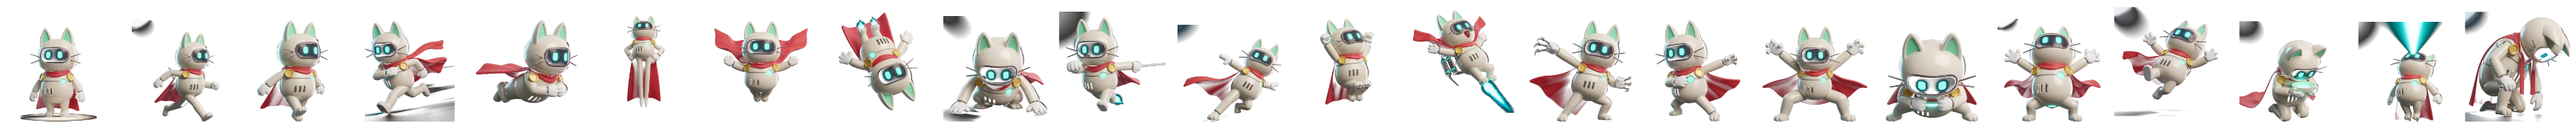
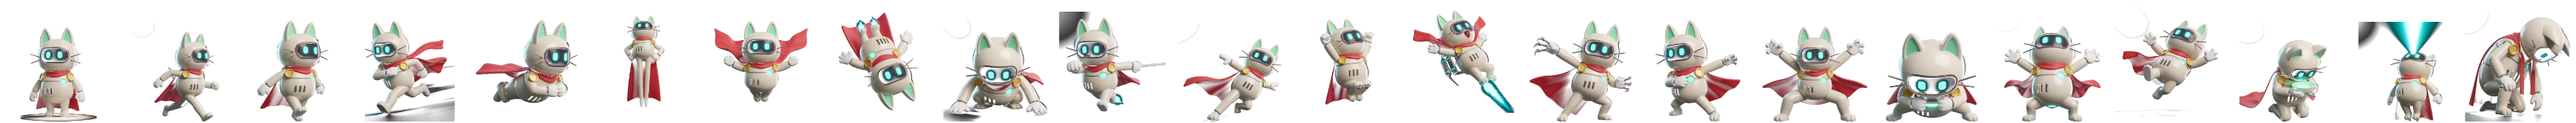
THE ROBOT HURRY: she runs like a wound-up machine, planted on the soil
The owner's exact words: 'moving like a cat instead of running like a cute
robot and running on top of grass'. Three causes, three fixes:

- The fired run pair is a low feline lunge - PARKED. heroState() substitutes
  the walk pair at 13fps; drawRoboPlate adds a forward lean and a hard little
  step-bounce so she pistons along instead of gliding. The upright re-fire
  brief is on THE FIRING LIST (new section 1e).
- HERO_FLOOR 1.2 -> 6: the plate sinks to the soil line, past the baked cell
  shadow, so the meadow grass brushes her ankles instead of carrying her.
- states.png scrubbed: 8 gray background slabs the generator left in the
  cells (5977 px) deleted by the new tools/cleanstates.cjs - per-cell
  component labeling, keep the largest (her), delete neutral+chunky islands.
  Original archived in assets/source/hero/states_asfired.png; lowres tier
  regenerated.

Verified deterministically: gait harness freezes the sim, forces anim to
each parity, and both walk cells render as distinct upright strides.
hero/tap/crystal harnesses green.

Claude-Session: https://claude.ai/code/session_01Gsj3m2xneq5ui4c7GqRHR1

diff --git a/index.html b/index.html
@@ -225,7 +225,7 @@
 })();
 </script>
 
-<script>window.BUILD_ID="msupn0wa";window.GAME_LOCK="robo";window.MUS_FILES={"ambient_observing_the_star":"assets/music/ambient_observing_the_star.ogg","epic_combat":"assets/music/epic_combat.ogg","mus_alpha":"assets/music/mus_alpha.m4a","mus_alphatame":"assets/music/mus_alphatame.m4a","mus_archives":"assets/music/mus_archives.m4a","mus_boss":"assets/music/mus_boss.m4a","mus_cache":"assets/music/mus_cache.m4a","mus_conduits":"assets/music/mus_conduits.m4a","mus_ending":"assets/music/mus_ending.m4a","mus_eye":"assets/music/mus_eye.m4a","mus_foundry":"assets/music/mus_foundry.m4a","mus_furnace":"assets/music/mus_furnace.m4a","mus_glaciere":"assets/music/mus_glaciere.m4a","mus_intro":"assets/music/mus_intro.m4a","mus_meadows":"assets/music/mus_meadows.m4a","mus_mother":"assets/music/mus_mother.m4a","mus_nest":"assets/music/mus_nest.m4a","mus_nullfang":"assets/music/mus_nullfang.m4a","mus_prism":"assets/music/mus_prism.m4a","mus_talonhost":"assets/music/mus_talonhost.m4a","mus_title":"assets/music/mus_title.m4a"};window.VID_FILES={"end_atlas":"assets/video/end_atlas.mp4","end_brood":"assets/video/end_brood.mp4","end_close":"assets/video/end_close.mp4","end_folk":"assets/video/end_folk.mp4","end_glitch":"assets/video/end_glitch.mp4","end_mother":"assets/video/end_mother.mp4","end_open":"assets/video/end_open.mp4","end_prism":"assets/video/end_prism.mp4","end_zero":"assets/video/end_zero.mp4","intro1":"assets/video/intro1.mp4","intro2":"assets/video/intro2.mp4","intro3":"assets/video/intro3.mp4","intro4":"assets/video/intro4.mp4","intro5":"assets/video/intro5.mp4","intro6":"assets/video/intro6.mp4","intro7":"assets/video/intro7.mp4","intro8":"assets/video/intro8.mp4","purify_atlas":"assets/video/purify_atlas.mp4","purify_brood":"assets/video/purify_brood.mp4","purify_glitch":"assets/video/purify_glitch.mp4","purify_prism":"assets/video/purify_prism.mp4","purify_zero":"assets/video/purify_zero.mp4","sword_gift":"assets/video/sword_gift.mp4"};window.VID_ALT={"end_atlas":"assets/video/end_atlas.webm","end_brood":"assets/video/end_brood.webm","end_close":"assets/video/end_close.webm","end_folk":"assets/video/end_folk.webm","end_glitch":"assets/video/end_glitch.webm","end_mother":"assets/video/end_mother.webm","end_open":"assets/video/end_open.webm","end_prism":"assets/video/end_prism.webm","end_zero":"assets/video/end_zero.webm","intro1":"assets/video/intro1.webm","intro2":"assets/video/intro2.webm","intro3":"assets/video/intro3.webm","intro4":"assets/video/intro4.webm","intro5":"assets/video/intro5.webm","intro6":"assets/video/intro6.webm","intro7":"assets/video/intro7.webm","intro8":"assets/video/intro8.webm","purify_atlas":"assets/video/purify_atlas.webm","purify_brood":"assets/video/purify_brood.webm","purify_glitch":"assets/video/purify_glitch.webm","purify_prism":"assets/video/purify_prism.webm","purify_zero":"assets/video/purify_zero.webm","sword_gift":"assets/video/sword_gift.webm"};window.VID_LIGHT={
+<script>window.BUILD_ID="msurpvlo";window.GAME_LOCK="robo";window.MUS_FILES={"ambient_observing_the_star":"assets/music/ambient_observing_the_star.ogg","epic_combat":"assets/music/epic_combat.ogg","mus_alpha":"assets/music/mus_alpha.m4a","mus_alphatame":"assets/music/mus_alphatame.m4a","mus_archives":"assets/music/mus_archives.m4a","mus_boss":"assets/music/mus_boss.m4a","mus_cache":"assets/music/mus_cache.m4a","mus_conduits":"assets/music/mus_conduits.m4a","mus_ending":"assets/music/mus_ending.m4a","mus_eye":"assets/music/mus_eye.m4a","mus_foundry":"assets/music/mus_foundry.m4a","mus_furnace":"assets/music/mus_furnace.m4a","mus_glaciere":"assets/music/mus_glaciere.m4a","mus_intro":"assets/music/mus_intro.m4a","mus_meadows":"assets/music/mus_meadows.m4a","mus_mother":"assets/music/mus_mother.m4a","mus_nest":"assets/music/mus_nest.m4a","mus_nullfang":"assets/music/mus_nullfang.m4a","mus_prism":"assets/music/mus_prism.m4a","mus_talonhost":"assets/music/mus_talonhost.m4a","mus_title":"assets/music/mus_title.m4a"};window.VID_FILES={"end_atlas":"assets/video/end_atlas.mp4","end_brood":"assets/video/end_brood.mp4","end_close":"assets/video/end_close.mp4","end_folk":"assets/video/end_folk.mp4","end_glitch":"assets/video/end_glitch.mp4","end_mother":"assets/video/end_mother.mp4","end_open":"assets/video/end_open.mp4","end_prism":"assets/video/end_prism.mp4","end_zero":"assets/video/end_zero.mp4","intro1":"assets/video/intro1.mp4","intro2":"assets/video/intro2.mp4","intro3":"assets/video/intro3.mp4","intro4":"assets/video/intro4.mp4","intro5":"assets/video/intro5.mp4","intro6":"assets/video/intro6.mp4","intro7":"assets/video/intro7.mp4","intro8":"assets/video/intro8.mp4","purify_atlas":"assets/video/purify_atlas.mp4","purify_brood":"assets/video/purify_brood.mp4","purify_glitch":"assets/video/purify_glitch.mp4","purify_prism":"assets/video/purify_prism.mp4","purify_zero":"assets/video/purify_zero.mp4","sword_gift":"assets/video/sword_gift.mp4"};window.VID_ALT={"end_atlas":"assets/video/end_atlas.webm","end_brood":"assets/video/end_brood.webm","end_close":"assets/video/end_close.webm","end_folk":"assets/video/end_folk.webm","end_glitch":"assets/video/end_glitch.webm","end_mother":"assets/video/end_mother.webm","end_open":"assets/video/end_open.webm","end_prism":"assets/video/end_prism.webm","end_zero":"assets/video/end_zero.webm","intro1":"assets/video/intro1.webm","intro2":"assets/video/intro2.webm","intro3":"assets/video/intro3.webm","intro4":"assets/video/intro4.webm","intro5":"assets/video/intro5.webm","intro6":"assets/video/intro6.webm","intro7":"assets/video/intro7.webm","intro8":"assets/video/intro8.webm","purify_atlas":"assets/video/purify_atlas.webm","purify_brood":"assets/video/purify_brood.webm","purify_glitch":"assets/video/purify_glitch.webm","purify_prism":"assets/video/purify_prism.webm","purify_zero":"assets/video/purify_zero.webm","sword_gift":"assets/video/sword_gift.webm"};window.VID_LIGHT={
  "end_atlas": "assets/video/light/end_atlas.mp4",
  "end_brood": "assets/video/light/end_brood.mp4",
  "end_close": "assets/video/light/end_close.mp4",
@@ -12072,7 +12072,13 @@ const HERO_CELLS = 22;
 // units — bigger than she is, because the cell has headroom over her ears — and
 // HERO_FLOOR is the 4px margin herostates.cjs leaves under the grounded poses,
 // scaled into those units so her soles land on y=0 and not just near it.
-const HERO_DH = 60, HERO_FLOOR = 1.2;
+// HERO_FLOOR sinks the plate to the SOIL LINE: the cells carry a baked
+// contact shadow and a few px of margin under the feet, and anchoring the
+// cell bottom to the floor stood her on top of the grass fringe — reported
+// as "running on top of grass instead of the ground". Sunk, her feet meet
+// the dirt and the front grass blades brush her ankles, which is what
+// standing IN a meadow looks like.
+const HERO_DH = 60, HERO_FLOOR = 6;
 // Airborne cells are CENTRED in their cell rather than stood on its floor (the
 // tool does this, because a flying pose has no contact point to align). They
 // must be drawn centred too, or she steps up a few pixels the frame she leaves
@@ -13188,10 +13194,14 @@ class Player {
     // a limp that survives a sprint reads as a bug, not as damage.
     if (this.cores <= 1 && Math.abs(this.vx) < 20) return 'slump';
     if (Math.abs(this.vx) > 12) {
-      // two-frame gait, driven by anim so it keeps time with the procedural
-      // stride the rest of the body effects are still cut to
-      const k = Math.floor(this.anim * (run ? 11 : 7)) % 2;
-      return run ? (k ? 'run_b' : 'run_a') : (k ? 'walk_b' : 'walk_a');
+      // THE RUN IS THE WALK, HURRIED. The fired run pair came back as a low
+      // feline lunge — the owner's exact words: "moving like a cat instead
+      // of running like a cute robot" — so those two cells are PARKED until
+      // re-fired upright (the re-fire is on the firing list). A cute robot
+      // hurries: same upright steps, faster, with the mechanical bounce and
+      // lean drawRoboPlate adds on top.
+      const k = Math.floor(this.anim * (run ? 13 : 7)) % 2;
+      return k ? 'walk_b' : 'walk_a';
     }
     return 'idle';
   }
@@ -13214,8 +13224,22 @@ class Player {
     const dh = HERO_DH, dw = dh * (cw / ch);
     // grounded cells stand on the cell's floor line; airborne cells are centred
     const dy = HERO_AIR[st] ? -dh * 0.5 - 18 : -dh + HERO_FLOOR;
+    c.save();
+    // THE ROBOT HURRY. The plates are stills; the machine in them comes from
+    // this: a forward lean and a hard little bounce timed to the step flips,
+    // so she pistons along like a wind-up toy instead of gliding. Grounded
+    // locomotion only — everything else keeps the plate's own pose.
+    const moving = this.on && Math.abs(this.vx) > 12 && !this.swingVis
+      && this.dashT <= 0 && this.landT <= 0 && this.skidT <= 0
+      && this.hurtPoseT <= 0 && this.healT <= 0 && this.chargeT <= 0.05;
+    if (moving) {
+      const step = Math.abs(Math.sin(this.anim * (run ? 13 : 7) * Math.PI / 2));
+      c.rotate(run ? 0.055 : 0.022);
+      c.translate(0, -step * (run ? 2.6 : 1.4));
+    }
     c.drawImage(im, col * cw, 0, cw, ch, -dw / 2, dy, dw, dh);
     this.drawHeroEyes(c, st, dw, dh, dy);
+    c.restore();
     return true;
   }
   // What she is FEELING, which is a different question from what she is doing.

diff --git a/odyssey.html b/odyssey.html
@@ -225,7 +225,7 @@
 })();
 </script>
 
-<script>window.BUILD_ID="msupn0wa";window.GAME_LOCK="hero";window.MUS_FILES={"ambient_observing_the_star":"assets/music/ambient_observing_the_star.ogg","epic_combat":"assets/music/epic_combat.ogg","mus_alpha":"assets/music/mus_alpha.m4a","mus_alphatame":"assets/music/mus_alphatame.m4a","mus_archives":"assets/music/mus_archives.m4a","mus_boss":"assets/music/mus_boss.m4a","mus_cache":"assets/music/mus_cache.m4a","mus_conduits":"assets/music/mus_conduits.m4a","mus_ending":"assets/music/mus_ending.m4a","mus_eye":"assets/music/mus_eye.m4a","mus_foundry":"assets/music/mus_foundry.m4a","mus_furnace":"assets/music/mus_furnace.m4a","mus_glaciere":"assets/music/mus_glaciere.m4a","mus_intro":"assets/music/mus_intro.m4a","mus_meadows":"assets/music/mus_meadows.m4a","mus_mother":"assets/music/mus_mother.m4a","mus_nest":"assets/music/mus_nest.m4a","mus_nullfang":"assets/music/mus_nullfang.m4a","mus_prism":"assets/music/mus_prism.m4a","mus_talonhost":"assets/music/mus_talonhost.m4a","mus_title":"assets/music/mus_title.m4a"};window.VID_FILES={"end_atlas":"assets/video/end_atlas.mp4","end_brood":"assets/video/end_brood.mp4","end_close":"assets/video/end_close.mp4","end_folk":"assets/video/end_folk.mp4","end_glitch":"assets/video/end_glitch.mp4","end_mother":"assets/video/end_mother.mp4","end_open":"assets/video/end_open.mp4","end_prism":"assets/video/end_prism.mp4","end_zero":"assets/video/end_zero.mp4","intro1":"assets/video/intro1.mp4","intro2":"assets/video/intro2.mp4","intro3":"assets/video/intro3.mp4","intro4":"assets/video/intro4.mp4","intro5":"assets/video/intro5.mp4","intro6":"assets/video/intro6.mp4","intro7":"assets/video/intro7.mp4","intro8":"assets/video/intro8.mp4","purify_atlas":"assets/video/purify_atlas.mp4","purify_brood":"assets/video/purify_brood.mp4","purify_glitch":"assets/video/purify_glitch.mp4","purify_prism":"assets/video/purify_prism.mp4","purify_zero":"assets/video/purify_zero.mp4","sword_gift":"assets/video/sword_gift.mp4"};window.VID_ALT={"end_atlas":"assets/video/end_atlas.webm","end_brood":"assets/video/end_brood.webm","end_close":"assets/video/end_close.webm","end_folk":"assets/video/end_folk.webm","end_glitch":"assets/video/end_glitch.webm","end_mother":"assets/video/end_mother.webm","end_open":"assets/video/end_open.webm","end_prism":"assets/video/end_prism.webm","end_zero":"assets/video/end_zero.webm","intro1":"assets/video/intro1.webm","intro2":"assets/video/intro2.webm","intro3":"assets/video/intro3.webm","intro4":"assets/video/intro4.webm","intro5":"assets/video/intro5.webm","intro6":"assets/video/intro6.webm","intro7":"assets/video/intro7.webm","intro8":"assets/video/intro8.webm","purify_atlas":"assets/video/purify_atlas.webm","purify_brood":"assets/video/purify_brood.webm","purify_glitch":"assets/video/purify_glitch.webm","purify_prism":"assets/video/purify_prism.webm","purify_zero":"assets/video/purify_zero.webm","sword_gift":"assets/video/sword_gift.webm"};window.VID_LIGHT={
+<script>window.BUILD_ID="msurpvlo";window.GAME_LOCK="hero";window.MUS_FILES={"ambient_observing_the_star":"assets/music/ambient_observing_the_star.ogg","epic_combat":"assets/music/epic_combat.ogg","mus_alpha":"assets/music/mus_alpha.m4a","mus_alphatame":"assets/music/mus_alphatame.m4a","mus_archives":"assets/music/mus_archives.m4a","mus_boss":"assets/music/mus_boss.m4a","mus_cache":"assets/music/mus_cache.m4a","mus_conduits":"assets/music/mus_conduits.m4a","mus_ending":"assets/music/mus_ending.m4a","mus_eye":"assets/music/mus_eye.m4a","mus_foundry":"assets/music/mus_foundry.m4a","mus_furnace":"assets/music/mus_furnace.m4a","mus_glaciere":"assets/music/mus_glaciere.m4a","mus_intro":"assets/music/mus_intro.m4a","mus_meadows":"assets/music/mus_meadows.m4a","mus_mother":"assets/music/mus_mother.m4a","mus_nest":"assets/music/mus_nest.m4a","mus_nullfang":"assets/music/mus_nullfang.m4a","mus_prism":"assets/music/mus_prism.m4a","mus_talonhost":"assets/music/mus_talonhost.m4a","mus_title":"assets/music/mus_title.m4a"};window.VID_FILES={"end_atlas":"assets/video/end_atlas.mp4","end_brood":"assets/video/end_brood.mp4","end_close":"assets/video/end_close.mp4","end_folk":"assets/video/end_folk.mp4","end_glitch":"assets/video/end_glitch.mp4","end_mother":"assets/video/end_mother.mp4","end_open":"assets/video/end_open.mp4","end_prism":"assets/video/end_prism.mp4","end_zero":"assets/video/end_zero.mp4","intro1":"assets/video/intro1.mp4","intro2":"assets/video/intro2.mp4","intro3":"assets/video/intro3.mp4","intro4":"assets/video/intro4.mp4","intro5":"assets/video/intro5.mp4","intro6":"assets/video/intro6.mp4","intro7":"assets/video/intro7.mp4","intro8":"assets/video/intro8.mp4","purify_atlas":"assets/video/purify_atlas.mp4","purify_brood":"assets/video/purify_brood.mp4","purify_glitch":"assets/video/purify_glitch.mp4","purify_prism":"assets/video/purify_prism.mp4","purify_zero":"assets/video/purify_zero.mp4","sword_gift":"assets/video/sword_gift.mp4"};window.VID_ALT={"end_atlas":"assets/video/end_atlas.webm","end_brood":"assets/video/end_brood.webm","end_close":"assets/video/end_close.webm","end_folk":"assets/video/end_folk.webm","end_glitch":"assets/video/end_glitch.webm","end_mother":"assets/video/end_mother.webm","end_open":"assets/video/end_open.webm","end_prism":"assets/video/end_prism.webm","end_zero":"assets/video/end_zero.webm","intro1":"assets/video/intro1.webm","intro2":"assets/video/intro2.webm","intro3":"assets/video/intro3.webm","intro4":"assets/video/intro4.webm","intro5":"assets/video/intro5.webm","intro6":"assets/video/intro6.webm","intro7":"assets/video/intro7.webm","intro8":"assets/video/intro8.webm","purify_atlas":"assets/video/purify_atlas.webm","purify_brood":"assets/video/purify_brood.webm","purify_glitch":"assets/video/purify_glitch.webm","purify_prism":"assets/video/purify_prism.webm","purify_zero":"assets/video/purify_zero.webm","sword_gift":"assets/video/sword_gift.webm"};window.VID_LIGHT={
  "end_atlas": "assets/video/light/end_atlas.mp4",
  "end_brood": "assets/video/light/end_brood.mp4",
  "end_close": "assets/video/light/end_close.mp4",
@@ -12072,7 +12072,13 @@ const HERO_CELLS = 22;
 // units — bigger than she is, because the cell has headroom over her ears — and
 // HERO_FLOOR is the 4px margin herostates.cjs leaves under the grounded poses,
 // scaled into those units so her soles land on y=0 and not just near it.
-const HERO_DH = 60, HERO_FLOOR = 1.2;
+// HERO_FLOOR sinks the plate to the SOIL LINE: the cells carry a baked
+// contact shadow and a few px of margin under the feet, and anchoring the
+// cell bottom to the floor stood her on top of the grass fringe — reported
+// as "running on top of grass instead of the ground". Sunk, her feet meet
+// the dirt and the front grass blades brush her ankles, which is what
+// standing IN a meadow looks like.
+const HERO_DH = 60, HERO_FLOOR = 6;
 // Airborne cells are CENTRED in their cell rather than stood on its floor (the
 // tool does this, because a flying pose has no contact point to align). They
 // must be drawn centred too, or she steps up a few pixels the frame she leaves
@@ -13188,10 +13194,14 @@ class Player {
     // a limp that survives a sprint reads as a bug, not as damage.
     if (this.cores <= 1 && Math.abs(this.vx) < 20) return 'slump';
     if (Math.abs(this.vx) > 12) {
-      // two-frame gait, driven by anim so it keeps time with the procedural
-      // stride the rest of the body effects are still cut to
-      const k = Math.floor(this.anim * (run ? 11 : 7)) % 2;
-      return run ? (k ? 'run_b' : 'run_a') : (k ? 'walk_b' : 'walk_a');
+      // THE RUN IS THE WALK, HURRIED. The fired run pair came back as a low
+      // feline lunge — the owner's exact words: "moving like a cat instead
+      // of running like a cute robot" — so those two cells are PARKED until
+      // re-fired upright (the re-fire is on the firing list). A cute robot
+      // hurries: same upright steps, faster, with the mechanical bounce and
+      // lean drawRoboPlate adds on top.
+      const k = Math.floor(this.anim * (run ? 13 : 7)) % 2;
+      return k ? 'walk_b' : 'walk_a';
     }
     return 'idle';
   }
@@ -13214,8 +13224,22 @@ class Player {
     const dh = HERO_DH, dw = dh * (cw / ch);
     // grounded cells stand on the cell's floor line; airborne cells are centred
     const dy = HERO_AIR[st] ? -dh * 0.5 - 18 : -dh + HERO_FLOOR;
+    c.save();
+    // THE ROBOT HURRY. The plates are stills; the machine in them comes from
+    // this: a forward lean and a hard little bounce timed to the step flips,
+    // so she pistons along like a wind-up toy instead of gliding. Grounded
+    // locomotion only — everything else keeps the plate's own pose.
+    const moving = this.on && Math.abs(this.vx) > 12 && !this.swingVis
+      && this.dashT <= 0 && this.landT <= 0 && this.skidT <= 0
+      && this.hurtPoseT <= 0 && this.healT <= 0 && this.chargeT <= 0.05;
+    if (moving) {
+      const step = Math.abs(Math.sin(this.anim * (run ? 13 : 7) * Math.PI / 2));
+      c.rotate(run ? 0.055 : 0.022);
+      c.translate(0, -step * (run ? 2.6 : 1.4));
+    }
     c.drawImage(im, col * cw, 0, cw, ch, -dw / 2, dy, dw, dh);
     this.drawHeroEyes(c, st, dw, dh, dy);
+    c.restore();
     return true;
   }
   // What she is FEELING, which is a different question from what she is doing.

diff --git a/js/entities.js b/js/entities.js
@@ -426,7 +426,13 @@ const HERO_CELLS = 22;
 // units — bigger than she is, because the cell has headroom over her ears — and
 // HERO_FLOOR is the 4px margin herostates.cjs leaves under the grounded poses,
 // scaled into those units so her soles land on y=0 and not just near it.
-const HERO_DH = 60, HERO_FLOOR = 1.2;
+// HERO_FLOOR sinks the plate to the SOIL LINE: the cells carry a baked
+// contact shadow and a few px of margin under the feet, and anchoring the
+// cell bottom to the floor stood her on top of the grass fringe — reported
+// as "running on top of grass instead of the ground". Sunk, her feet meet
+// the dirt and the front grass blades brush her ankles, which is what
+// standing IN a meadow looks like.
+const HERO_DH = 60, HERO_FLOOR = 6;
 // Airborne cells are CENTRED in their cell rather than stood on its floor (the
 // tool does this, because a flying pose has no contact point to align). They
 // must be drawn centred too, or she steps up a few pixels the frame she leaves
@@ -1542,10 +1548,14 @@ class Player {
     // a limp that survives a sprint reads as a bug, not as damage.
     if (this.cores <= 1 && Math.abs(this.vx) < 20) return 'slump';
     if (Math.abs(this.vx) > 12) {
-      // two-frame gait, driven by anim so it keeps time with the procedural
-      // stride the rest of the body effects are still cut to
-      const k = Math.floor(this.anim * (run ? 11 : 7)) % 2;
-      return run ? (k ? 'run_b' : 'run_a') : (k ? 'walk_b' : 'walk_a');
+      // THE RUN IS THE WALK, HURRIED. The fired run pair came back as a low
+      // feline lunge — the owner's exact words: "moving like a cat instead
+      // of running like a cute robot" — so those two cells are PARKED until
+      // re-fired upright (the re-fire is on the firing list). A cute robot
+      // hurries: same upright steps, faster, with the mechanical bounce and
+      // lean drawRoboPlate adds on top.
+      const k = Math.floor(this.anim * (run ? 13 : 7)) % 2;
+      return k ? 'walk_b' : 'walk_a';
     }
     return 'idle';
   }
@@ -1568,8 +1578,22 @@ class Player {
     const dh = HERO_DH, dw = dh * (cw / ch);
     // grounded cells stand on the cell's floor line; airborne cells are centred
     const dy = HERO_AIR[st] ? -dh * 0.5 - 18 : -dh + HERO_FLOOR;
+    c.save();
+    // THE ROBOT HURRY. The plates are stills; the machine in them comes from
+    // this: a forward lean and a hard little bounce timed to the step flips,
+    // so she pistons along like a wind-up toy instead of gliding. Grounded
+    // locomotion only — everything else keeps the plate's own pose.
+    const moving = this.on && Math.abs(this.vx) > 12 && !this.swingVis
+      && this.dashT <= 0 && this.landT <= 0 && this.skidT <= 0
+      && this.hurtPoseT <= 0 && this.healT <= 0 && this.chargeT <= 0.05;
+    if (moving) {
+      const step = Math.abs(Math.sin(this.anim * (run ? 13 : 7) * Math.PI / 2));
+      c.rotate(run ? 0.055 : 0.022);
+      c.translate(0, -step * (run ? 2.6 : 1.4));
+    }
     c.drawImage(im, col * cw, 0, cw, ch, -dw / 2, dy, dw, dh);
     this.drawHeroEyes(c, st, dw, dh, dy);
+    c.restore();
     return true;
   }
   // What she is FEELING, which is a different question from what she is doing.

diff --git a/docs/ART_QUEUE.md b/docs/ART_QUEUE.md
@@ -223,11 +223,12 @@ branches, ever. §1 is DONE and merged; the list below is what remains.
   2. §1b-ii regrips ×2 + thrown blade ×1 (thrown = BODY LENGTH — owner ruling)
   3. §1c    back-jet gear ×3             (idle / mid-boost / full burn)
   4. §1d    THE FORGING CINEMATIC ×1     (cartoonish; Ratchet's chest crystal visible)
-  5. §2e    sage plates ×6               (stand/coil/lunge/gather/kneel-lock/purified)
-  6. §2d    robot bat plates ×5          (hang/shiver/dive/flap-up/flap-down)
-  7. §2c    caveMouth + caveExit + pillar ×3, then the cave tile deck
-  8. §1     unarmed side action set + apex/burst/heal/Song/slump/wallcling
-  9. §2     zone terrain briefs (edge_/fore_ per zone — task #76)
+  5. §1e    RUN PAIR RE-FIRE ×2          (run_a / run_b — see brief below; owner rejected v1)
+  6. §2e    sage plates ×6               (stand/coil/lunge/gather/kneel-lock/purified)
+  7. §2d    robot bat plates ×5          (hang/shiver/dive/flap-up/flap-down)
+  8. §2c    caveMouth + caveExit + pillar ×3, then the cave tile deck
+  9. §1     unarmed side action set + apex/burst/heal/Song/slump/wallcling
+ 10. §2     zone terrain briefs (edge_/fore_ per zone — task #76)
 
 Estimated spend: ~45-55 credits of session B's balance. After each block:
 git pull, run the pipeline (blackkey -> img-crush -> archive -> wire), and
@@ -273,6 +274,36 @@ re-plumbing when it lands:
   a bespoke ground plate for it can replace the generic glimmer.
 - tests/crystal.cjs measures the arc end-to-end (14 checks) and stays green
   through any art swap — it reads state, not pixels.
+
+### 1e. THE RUN PAIR RE-FIRE ✱ FIRE ON REBIND — the owner rejected v1
+
+The fired `run_a`/`run_b` cells came back as a LOW FELINE LUNGE — body
+horizontal, paws forward like a sprinting cat. The owner's exact words
+(2026-08-15): *"Hero is moving like a cat instead of running like a cute
+robot."* Those two cells are PARKED — `heroState()` in js/entities.js
+substitutes the walk pair at 13 fps with a mechanical lean+bounce
+(drawRoboPlate) until the re-fire lands. Wiring is a two-line revert in
+`heroState()` once the new cells pass review.
+
+The brief, per cell (canon element `<<<467c8e08-8161-483f-a4cf-439875ff04e2>>>`
+in the prompt, identity line + standing negatives as always):
+
+- **run_a**: UPRIGHT hurrying jog, torso vertical with a slight forward
+  lean, front leg reaching, back leg pushing off — a wind-up-toy hurry, not
+  an animal sprint. Side view facing right.
+- **run_b**: the opposite stride — other leg forward, arms swapped — same
+  upright carriage, same lean. Side view facing right.
+
+Hard requirements learned from v1: NO ground streaks, NO motion-blur smears,
+NO baked cast shadow or floor patch under her (v1 shipped with gray slab
+remnants in 8 cells — `tools/cleanstates.cjs` had to scrub them; the
+generation warnings in the STATUS LEDGER apply: dark-room phrasing beats
+"pure black background", never white-key her, bright and even exposure).
+After keying: paste into `assets/characters/hero/states.png` cells 3 and 4
+(HERO_CELL run_a/run_b), archive the fired originals in
+`assets/source/hero/`, re-run `tools/heroeyes.cjs` for the two cells' eye
+rects, then `node tools/lowres.cjs && node build.cjs` and
+`node tests/run.cjs hero artbible`.
 
 ### 1a. The turnaround — 8 yaw angles, one prompt each  ✅ DONE (both variants)
 `hzd_yaw0 … hzd_yaw7`: 0° (facing screen-right), 45°, 90° (facing camera),
